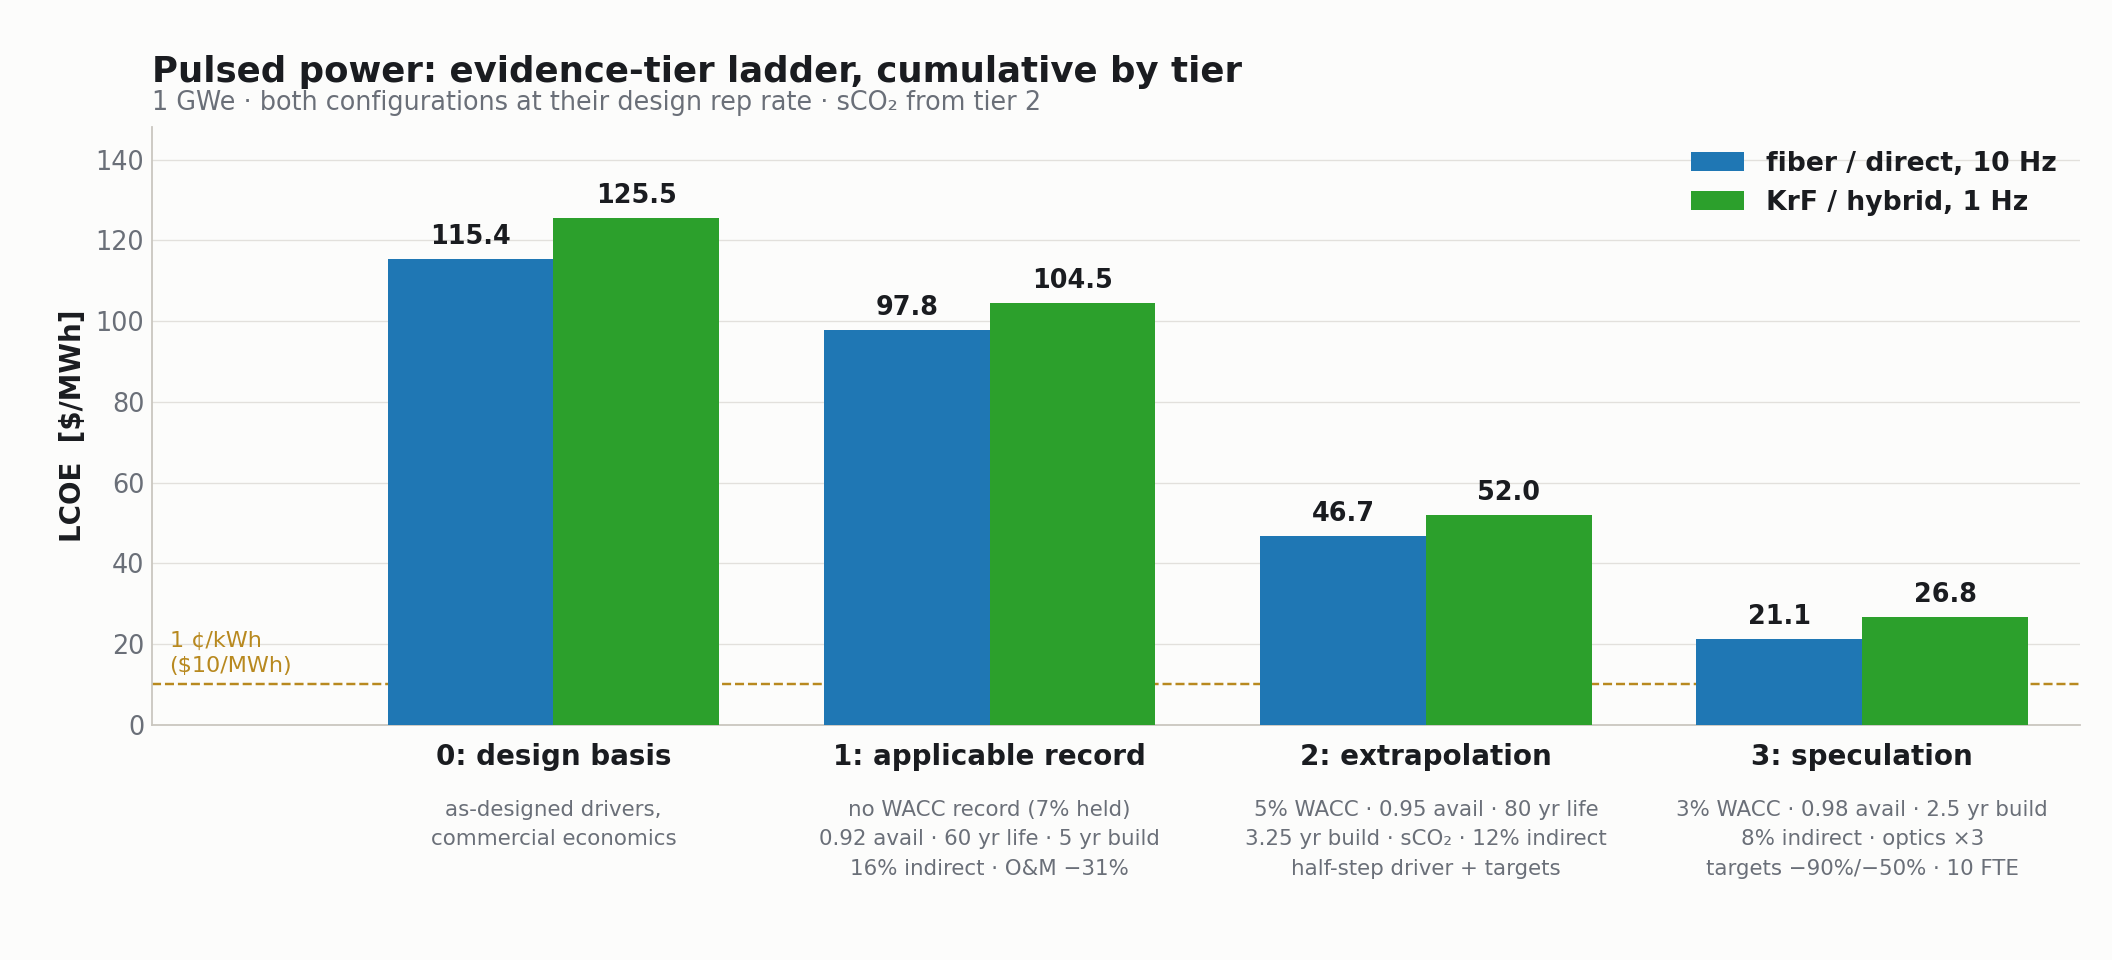
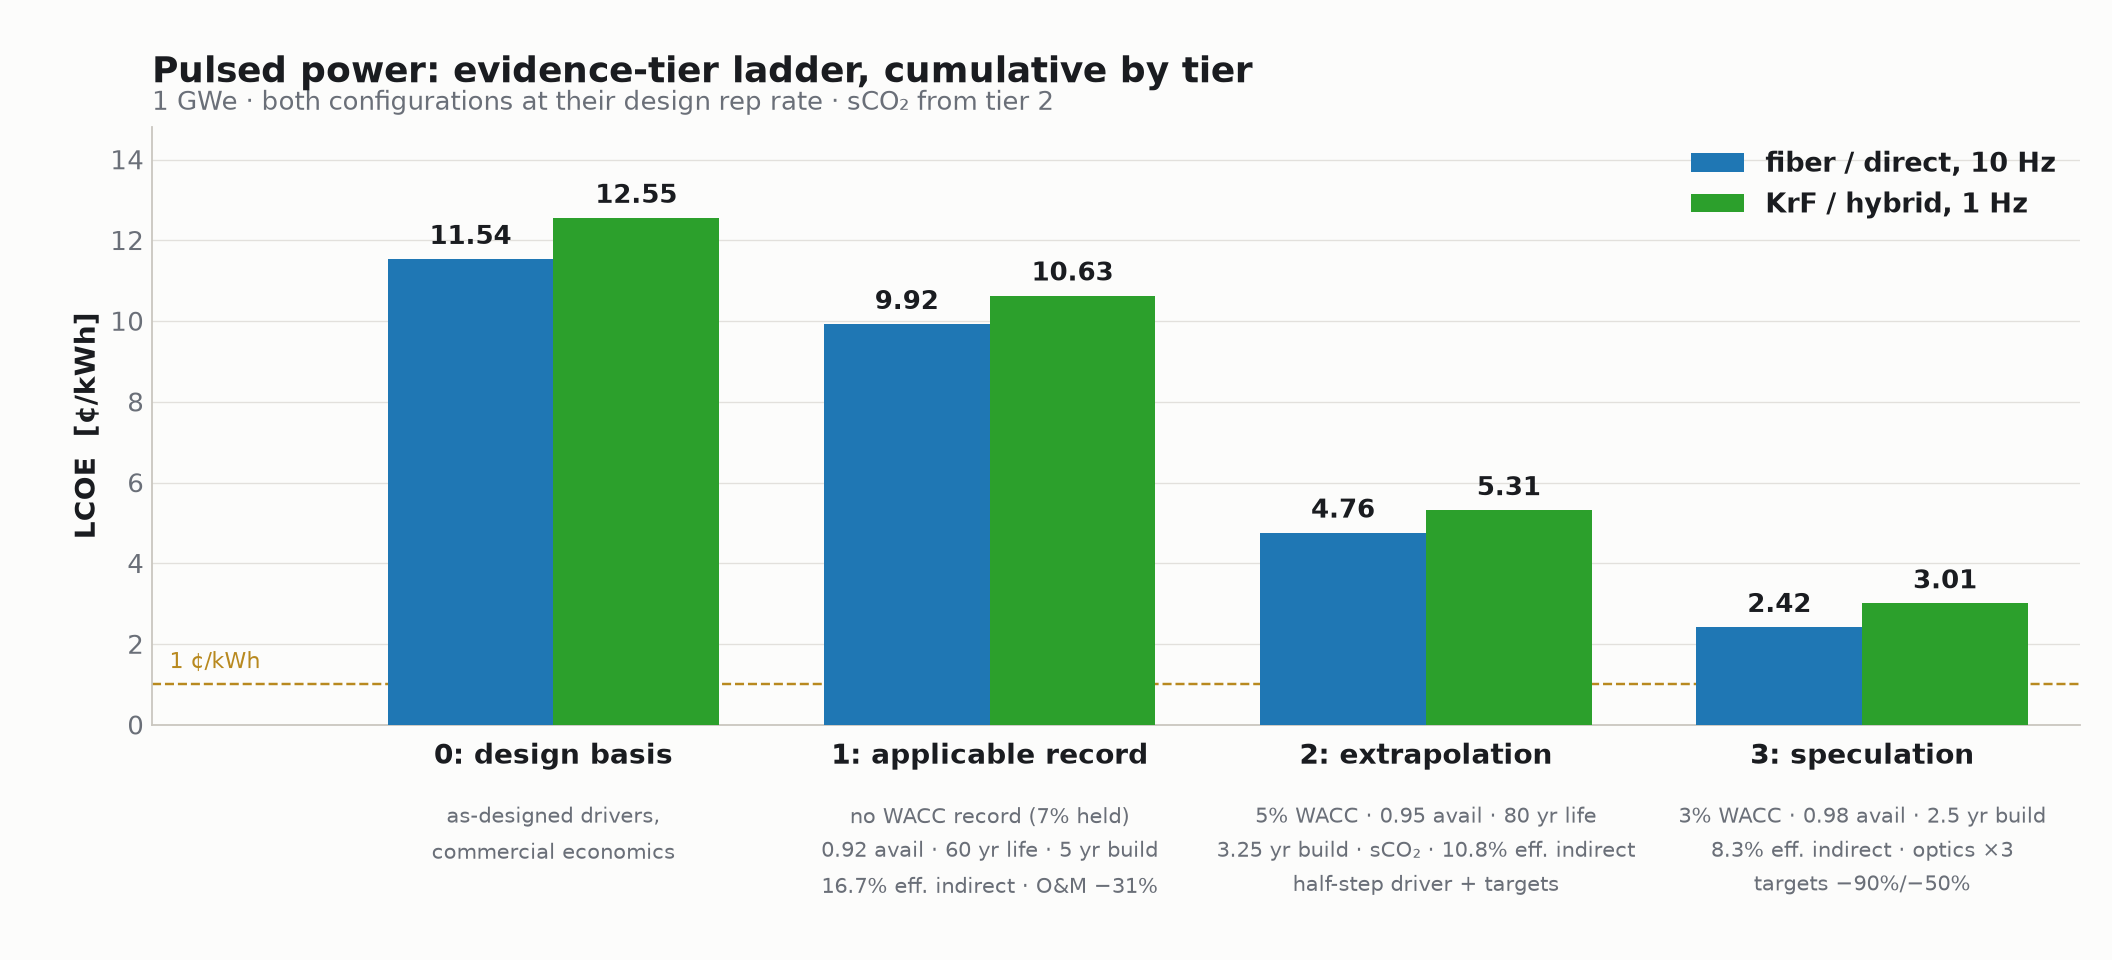
Match the published article: 20% nominal indirects, tier-3 lights-out O&M, regenerated results (#1)
* Match the published article: indirects held at 20% nominal, tier-3 lights-out O&M, regenerated results and figures

Per the 30 September publication check. See the PR description for the itemized changes.

* Tier 3 holds the tier-2 -55% fixed O&M; lights-out credited in none of the D-T ladders

---------

diff --git a/tier_ladder_figs.py b/tier_ladder_figs.py
@@ -16,6 +16,9 @@ Tier vocabulary follows the approved cost-down lever table:
 Reads corridor_tiers.json.  Writes:
   mature_tier_ladder.png / pulsed_tier_ladder.png / revenue_tier_ladder.png
 """
+import os as _os, sys as _sys
+_sys.path.insert(0, _os.path.dirname(_os.path.abspath(__file__)))
+_sys.path.insert(0, _os.environ.get("COSTINGFE_SRC", "1costingfe/src"))
 import sys, types
 sys.modules.setdefault("plistlib", types.ModuleType("plistlib"))
 
@@ -37,7 +40,23 @@ TIERS = ["0: design basis", "1: applicable record",
 DOT, MINUS, SUB2, TIMES = "·", "−", "₂", "×"
 
 
-def ladder(fname, title, sub, s1_label, s1, s2_label, s2, notes, ymax=None):
+def ladder(fname, title, sub, s1_label, s1, s2_label, s2, notes, ymax=None,
+           cents=False):
+    """cents=True plots in ¢/kWh instead of $/MWh (1 ¢/kWh == $10/MWh).
+
+    The corridor model works in $/MWh throughout, so the conversion happens
+    here at the plotting boundary only -- corridor_tiers.json stays canonical
+    and the other two corridors keep their $/MWh axis untouched.
+    """
+    scale = 0.1 if cents else 1.0
+    s1 = [v * scale for v in s1]
+    s2 = [v * scale for v in s2]
+    target = TARGET * scale
+    ylabel = "LCOE  [¢/kWh]" if cents else "LCOE  [$/MWh]"
+    # ~1-13 ¢/kWh needs a second decimal to keep the tiers distinguishable
+    vfmt = ",.2f" if cents else ",.1f"
+    tlabel = "1 ¢/kWh" if cents else "1 ¢/kWh\n($10/MWh)"
+
     fig, ax = plt.subplots(figsize=(13.2, 6.0))
     fig.patch.set_facecolor(SURFACE)
     ax.set_facecolor(SURFACE)
@@ -54,14 +73,14 @@ def ladder(fname, title, sub, s1_label, s1, s2_label, s2, notes, ymax=None):
             off = hi * 0.015
             ax.text(bar.get_x() + bar.get_width() / 2,
                     v + off if v >= 0 else v - off * 2.4,
-                    f"{v:,.1f}", ha="center",
+                    format(v, vfmt), ha="center",
                     va="bottom" if v >= 0 else "top",
                     fontsize=11.5, color=INK, fontweight="600", zorder=4)
 
     # target line, with a left gutter opened up so its label never sits on a bar
     ax.set_xlim(-0.92, len(TIERS) - 0.5)
-    ax.axhline(TARGET, ls="--", lw=1.1, color="#b8891f", zorder=2)
-    ax.text(-0.88, TARGET + hi * 0.014, "1 ¢/kWh\n($10/MWh)", fontsize=10,
+    ax.axhline(target, ls="--", lw=1.1, color="#b8891f", zorder=2)
+    ax.text(-0.88, target + hi * 0.014, tlabel, fontsize=10,
             color="#b8891f", ha="left", va="bottom", zorder=5, linespacing=1.35)
     if lo < 0:
         ax.axhline(0, lw=0.9, color=RULE, zorder=2)
@@ -75,7 +94,7 @@ def ladder(fname, title, sub, s1_label, s1, s2_label, s2, notes, ymax=None):
         ax.text(i, -0.125, n, transform=tr, ha="center", va="top",
                 fontsize=9.6, color=MUTED, linespacing=1.6)
 
-    ax.set_ylabel("LCOE  [$/MWh]", fontsize=12.5, color=INK, fontweight="600")
+    ax.set_ylabel(ylabel, fontsize=12.5, color=INK, fontweight="600")
     ax.set_ylim(lo * 1.35 if lo < 0 else 0, hi)
     ax.set_title(title, fontsize=16, color=INK, fontweight="600", loc="left", pad=20)
     ax.text(0, 1.018, sub, transform=ax.transAxes, fontsize=11.5, color=MUTED,
@@ -102,12 +121,10 @@ def ladder(fname, title, sub, s1_label, s1, s2_label, s2, notes, ymax=None):
 # Tier 1 carries no cost-of-capital record, so the 7% design basis is held there.
 NOTE_T1 = (f"no WACC record (7% held)\n"
            f"0.92 avail {DOT} 60 yr life {DOT} 5 yr build\n"
-           f"16% indirect {DOT} O&M {MINUS}31%")
+           f"16.7% eff. indirect {DOT} O&M {MINUS}31%")
 
-# Trimmed for this repository: the shared engine in corridor_tiers.py also
-# draws the mature and alternate-revenue ladders, which live in their own
-# repos.  The revenue ladder there is the superseded two-series version.
-
+# Trimmed for this repository: the shared engine also draws the other
+# corridors' ladders, which live in their own repositories.
 # --------------------------------------------------------------- pulsed power
 P = D["pulsed"]
 ladder(
@@ -120,9 +137,11 @@ ladder(
     ["as-designed drivers,\ncommercial economics",
      NOTE_T1,
      f"5% WACC {DOT} 0.95 avail {DOT} 80 yr life\n"
-     f"3.25 yr build {DOT} sCO{SUB2} {DOT} 12% indirect\n"
+     f"3.25 yr build {DOT} sCO{SUB2} {DOT} 10.8% eff. indirect\n"
      f"half-step driver + targets",
      f"3% WACC {DOT} 0.98 avail {DOT} 2.5 yr build\n"
-     f"8% indirect {DOT} optics {TIMES}3\n"
-     f"targets {MINUS}90%/{MINUS}50% {DOT} 10 FTE"],
+     f"8.3% eff. indirect {DOT} optics {TIMES}3\n"
+     f"targets {MINUS}90%/{MINUS}50%"],
+    cents=True,
 )
+

diff --git a/pulsed_tornado_plot.py b/pulsed_tornado_plot.py
@@ -53,8 +53,7 @@ def rows_for(c):
         ("Book life  30 $\\rightarrow$ 80 yr",           delta(c, life=80.0)),
         ("Construction  5 $\\rightarrow$ 2.5 yr",        delta(c, constr=2.5)),
         ("Availability  0.85 $\\rightarrow$ 0.98",       delta(c, av=0.98)),
-        ("Indirect cost  20% $\\rightarrow$ 8%",         delta(c, indir=0.08)),
-        ("Fixed O&M  $\\rightarrow$ lights-out",         delta(c, om=0.0855)),
+        ("Fixed O&M  $-$55%",                             delta(c, om=0.45)),
         ("Brownfield siting",                            delta(c, bld=0.65, elec=0.40, hr=0.60)),
         ("Power cycle  $\\rightarrow$ sCO$_2$ Brayton",  delta(c, sco2=True)),
         ("Driver capital",                               delta(c, drv=C.PT3["drv"])),
@@ -66,7 +65,12 @@ def rows_for(c):
     ]
 
 
-data = {c: rows_for(c) for c, _, _ in CONCEPTS}
+# The corridor model works in $/MWh; this dispatch reports ¢/kWh, so every
+# delta and baseline is converted once here at the plotting boundary.
+# 1 ¢/kWh == $10/MWh.
+CENTS = 0.1
+
+data = {c: [(lab, v * CENTS) for lab, v in rows_for(c)] for c, _, _ in CONCEPTS}
 labels = [r[0] for r in data["BLF"]]
 order = sorted(range(len(labels)),
                key=lambda i: max(data[c][i][1] for c, _, _ in CONCEPTS))
@@ -86,14 +90,14 @@ for k, (c, lab, col) in enumerate(CONCEPTS):
             color=col, edgecolor="white", linewidth=0.6, zorder=3)
     span = max(max(v for _, v in data[cc]) for cc, _, _ in CONCEPTS)
     for i, v in enumerate(vals):
-        ax.text(v + span * 0.012, i + off, f"{v:.1f}", va="center", ha="left",
+        ax.text(v + span * 0.012, i + off, f"{v:.2f}", va="center", ha="left",
                 fontsize=8.6, color=INK)
 
 ax.set_yticks(range(len(labels)))
 ax.set_yticklabels(labels, fontsize=9.8, color=INK)
 span = max(max(v for _, v in data[c]) for c, _, _ in CONCEPTS)
 ax.set_xlim(0, span * 1.11)
-ax.set_xlabel("reduction in LCOE  [\\$/MWh]", fontsize=10.8, color=INK, fontweight="600")
+ax.set_xlabel("reduction in LCOE  [¢/kWh]", fontsize=10.8, color=INK, fontweight="600")
 ax.grid(axis="x", color=RULE, alpha=.35, zorder=0)
 ax.set_axisbelow(True)
 for s in ("top", "right", "left"):
@@ -109,16 +113,18 @@ for t in leg.get_texts():
 fig.text(0.02, 0.972, "What moves the cost of a 1 GWe pulsed plant",
          fontsize=14.5, color=INK, ha="left", va="top", fontweight="600")
 fig.text(0.02, 0.936,
-         f"baseline \\${base('BLF'):.0f} fiber / \\${base('Xcimer'):.0f} KrF per MWh  ·  "
+         f"baseline {base('BLF') * CENTS:.1f}¢ fiber / "
+         f"{base('Xcimer') * CENTS:.1f}¢ KrF per kWh  ·  "
          "each cost-down lever applied alone, at its deepest evidence tier",
          fontsize=10, color=MUTED, ha="left", va="top")
 
 fig.savefig("figures/pulsed_tornado.png", dpi=155, facecolor=SURFACE)
 print(f"wrote figures/pulsed_tornado.png")
-print(f"  baseline  fiber ${base('BLF'):.2f}   KrF ${base('Xcimer'):.2f}\n")
-print(f"  {'lever':<40}{'fiber':>9}{'KrF':>9}")
+print(f"  baseline  fiber {base('BLF') * CENTS:.3f} c/kWh"
+      f"   KrF {base('Xcimer') * CENTS:.3f} c/kWh\n")
+print(f"  {'lever  [c/kWh reduction]':<40}{'fiber':>9}{'KrF':>9}")
 for i in reversed(order):
     lab = data['BLF'][i][0]
     clean = (lab.replace("$_2$", "2").replace("$\\rightarrow$", "->")
                 .replace("$\\times$", "x").replace("$-$", "-"))
-    print(f"  {clean:<40}{data['BLF'][i][1]:>9.1f}{data['Xcimer'][i][1]:>9.1f}")
+    print(f"  {clean:<40}{data['BLF'][i][1]:>9.2f}{data['Xcimer'][i][1]:>9.2f}")

diff --git a/corridor_tiers.py b/corridor_tiers.py
@@ -20,6 +20,9 @@ Models
 
 Writes corridor_tiers.json and prints the ladder tables.
 """
+import os as _os, sys as _sys
+_sys.path.insert(0, _os.path.dirname(_os.path.abspath(__file__)))
+_sys.path.insert(0, _os.environ.get("COSTINGFE_SRC", "1costingfe/src"))
 import io
 import json
 import contextlib
@@ -57,14 +60,22 @@ def coil_mult(rebco, planar=False, concept="stellarator"):
 # lever names.  See the markdown appendices for the citation behind each entry.
 # Each stop is the best value some real project has held at that grade; see the
 # markdown appendices for the citation behind every entry.
+#
+# Indirects are the exception: the nominal fraction is held at the NETL 20% at
+# every rung and only the build time moves what is actually charged, because
+# CAS30 = fraction x CAS20 x (construction_time / 6 yr) already carries the
+# schedule.  Effective shares are 20% at a 6 yr build, 16.7% at 5 yr, 10.8% at
+# 3.25 and 8.3% at 2.5 -- the same convention as the aneutronic studies.
 T1_REC = {"av": 0.92, "life": 60.0, "constr": 5.0,
-          "indir": 0.16, "om": 0.69}
-T2_EXT = {"wacc": 0.05, "indir": 0.12,
+          "indir": 0.20, "om": 0.69}
+T2_EXT = {"wacc": 0.05, "indir": 0.20,
           "av": 0.95, "life": 80.0, "constr": 3.25, "flu": 2.0,
           "om": 0.45}
 # Brownfield siting is a scenario choice, not an evidence grade: one package
 # (buildings, interconnection, heat rejection) that the tier-3 preset adopts.
-T3_SPEC = {"wacc": 0.03, "indir": 0.08,
+# Fixed O&M stays at the tier-2 -55%: lights-out operation is not credited in
+# any of the three D-T ladders.
+T3_SPEC = {"wacc": 0.03, "indir": 0.20,
            "av": 0.98, "constr": 2.5, "flu": 3.0, "disr": 0.167,
            "bld": 0.65, "elec": 0.40, "hr": 0.60}
 
@@ -143,20 +154,22 @@ def plcoe(concept, ri, L, eta_f, wear_f):
 
 
 PT1 = {"av": 0.92, "life": 60.0, "constr": 5.0,
-       "indir": 0.16, "om": 0.69}
+       "indir": 0.20, "om": 0.69}
 # Driver capital, target factory and target opex have a sourced baseline and a
 # sourced endpoint but nothing in between, so the tier-2 value is simply the
 # midpoint of the two -- an increment between baseline and ceiling, not a
 # separately sourced operating point.  Same convention as the wall-plug and
 # shot-life increments above.
-PT2 = {"wacc": 0.05, "indir": 0.12,
+PT2 = {"wacc": 0.05, "indir": 0.20,
        "av": 0.95, "life": 80.0, "constr": 3.25,
        "sco2": True, "om": 0.45, "tfac": 0.825,
        "drv": {"BLF": 0.834, "Xcimer": 0.813},
        "tgt": {"BLF": 0.55, "Xcimer": 0.75}}
-# tier 3 replaces the fleet-staffing O&M step with lights-out operation (~10 FTE)
-PT3 = {"wacc": 0.03, "indir": 0.08,
-       "av": 0.98, "constr": 2.5, "om": 0.0855, "tfac": 0.65,
+# Tier 3 holds the tier-2 fixed-O&M reduction (-55%): lights-out operation (~10 FTE)
+# is not credited in any of the three D-T ladders (mature, pulsed, byproduct), so
+# they share one tier-3 O&M convention.
+PT3 = {"wacc": 0.03, "indir": 0.20,
+       "av": 0.98, "constr": 2.5, "om": 0.45, "tfac": 0.65,
        "drv": {"BLF": 0.667, "Xcimer": 0.625},
        "tgt": {"BLF": 0.10, "Xcimer": 0.50},
        "bld": 0.65, "elec": 0.40, "hr": 0.60}

diff --git a/ct_tornado.py b/ct_tornado.py
@@ -7,6 +7,9 @@ Reproduces the reduced-CAS model of mature_corridor_report.py, with two changes:
   * first-wall life is charged on PEAK wall load (q_n_peak), not the plant
     average, so CAS72 is no longer over-credited by the peaking factor.
 """
+import os as _os, sys as _sys
+_sys.path.insert(0, _os.path.dirname(_os.path.abspath(__file__)))
+_sys.path.insert(0, _os.environ.get("COSTINGFE_SRC", "1costingfe/src"))
 import json, math
 
 D = json.load(open("ct_corridor_data.json"))

diff --git a/README.md b/README.md
@@ -16,12 +16,14 @@ KrF/hybrid concept in the consumable.
 | Evidence tier | fiber / direct, 10 Hz | KrF / hybrid, 1 Hz |
 |---|---|---|
 | 0 · design baseline | $115.4 | $125.5 |
-| 1 · applicable record | $97.8 | $104.5 |
-| 2 · extrapolation with a known mechanism | $46.7 | $52.0 |
-| 3 · speculation, no mechanism | **$21.1** | **$26.8** |
+| 1 · applicable record | $99.2 | $106.3 |
+| 2 · extrapolation with a known mechanism | $47.6 | $53.1 |
+| 3 · speculation, no mechanism | **$24.2** | **$30.1** |
 
 All figures $/MWh. Neither configuration reaches the 1 ¢/kWh ($10/MWh) target, and both
 clear $20/MWh only on full speculation.
+
+One convention was brought to the published article on 30 September 2026. The nominal indirect-cost fraction is held at the NETL 20% on every rung and only the build time moves what is charged (CAS30 = fraction × CAS20 × build / 6 yr, so 20 / 16.7 / 10.8 / 8.3% effective at 6 / 5 / 3.25 / 2.5 years), the convention the aneutronic studies use; the earlier 20 / 16 / 12 / 8% ladder charged the schedule twice. The design basis is costed at the current wall-plug efficiencies, 20% fiber and 7% KrF (`eta_source` defaults), and the ladder lifts them to the published ceilings, 25% and 10%, at the speculation tier. Tier 3 had priced lights-out operation (fixed O&M × 0.0855) here alone; it now holds the tier-2 −55% like the other two D-T ladders, which moves the floor from 21.7 / 27.4 to 24.2 / 30.1 $/MWh (2.4 / 3.0 ¢/kWh).
 
 ## Reproducing
 
@@ -45,9 +47,9 @@ python pulsed_tornado_plot.py       # figures/pulsed_tornado.png
 PULSED POWER  --  fiber/direct at 10 Hz and KrF/hybrid at 1 Hz, 1 GWe
 rung                    fiber/direct    KrF/hybrid
 0: design baseline             115.4         125.5
-1: records                      97.8         104.5
-2: extrapolations               46.7          52.0
-3: speculation                  21.1          26.8
+1: records                      99.2         106.3
+2: extrapolations               47.6          53.1
+3: speculation                  24.2          30.1
 ```
 
 To re-derive the underlying cost points rather than use the committed datasets, you need
